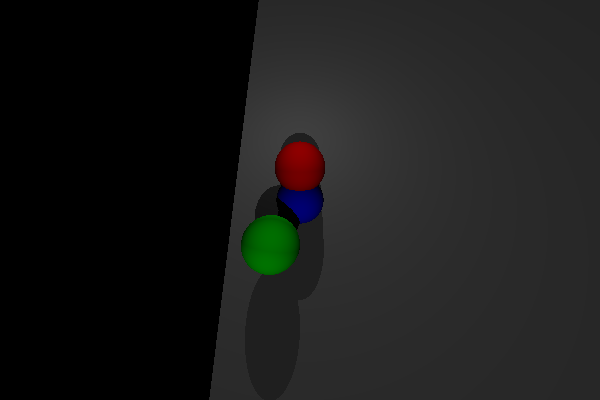
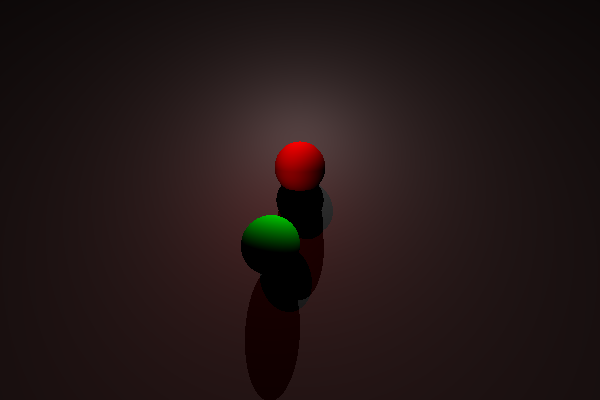
Changed scenes to better see point lights

diff --git a/src/main.rs b/src/main.rs
@@ -21,18 +21,23 @@ fn render_multiple_scenes() {
         Element::Sphere(Sphere::new(0f32, 1f32, -4f32, Colors::RED, 1.0)),
         Element::Sphere(Sphere::new(1f32, 1f32, -1f32, Colors::GREEN, 1.0)),
         Element::Plane(Plane::new()),
-        Element::Triangle(Triangle::new_defined())
+        // Element::Triangle(Triangle::new_defined())
     ];
     let lights = [
         Light::DirectionalLight(DirectionalLight {
             color: Colors::WHITE.value(),
-            intensity: 1.0,
+            intensity: 0.001,
             direction: Vector3::new(0.0, -1.0, -1.0),
         }),
         Light::PointLight(PointLight {
             color: Colors::WHITE.value(),
-            intensity: 1.0,
+            intensity: 2.0,
             position: Vector3::new(0.0, 3.0, -6.5),
+        }),
+        Light::PointLight(PointLight {
+            color: Colors::RED.value(),
+            intensity: 1.0,
+            position: Vector3::new(1.0, 3.0, -2.5),
         }),
     ];
     threads.push(thread::spawn(move || {

diff --git a/src/components/triangle.rs b/src/components/triangle.rs
@@ -41,7 +41,13 @@ impl Intersectable for Triangle {
     fn simple_intersect(&self, ray: &Ray) -> bool {
         let normal = &self.normal;
         let denom = normal.dot(&ray.direction);
-        denom > 1e-6
+        if denom > 1e-6 {
+            let p0l0 = self.get_position() - ray.origin;
+            let t = p0l0.dot(&normal) / denom;
+            t >= 0.0
+        } else {
+            false
+        }
     }
     fn get_position(&self) -> Vector3<f32> {
         self.coordinates
@@ -54,7 +60,7 @@ impl Intersectable for Triangle {
             None
         } else {
             let d = self.normal.dot(&self.coordinates[0]);
-            let t = -(self.normal.dot(&ray.origin) + d) / - self.normal.dot(&ray.direction);
+            let t = -(self.normal.dot(&ray.origin) + d) / self.normal.dot(&ray.direction);
             let intersection = ray.origin + t * ray.direction;
             Some(
                 PointInfo {

diff --git a/src/components/plane.rs b/src/components/plane.rs
@@ -24,7 +24,14 @@ impl Intersectable for Plane {
     fn simple_intersect(&self, ray: &Ray) -> bool {
         let normal = &self.normal;
         let denom = normal.dot(&ray.direction);
-        denom > 1e-6
+        if denom > 1e-6 {
+            let p0l0 = self.position - ray.origin;
+            let t = p0l0.dot(&normal) / denom;
+            t >= 0.0
+        } else {
+            false
+        }
+        
     }
     fn intersect(&self, ray: &Ray) -> Option<PointInfo> {
         let normal = &self.normal;

diff --git a/src/components/scene.rs b/src/components/scene.rs
@@ -79,7 +79,7 @@ impl Scene {
                     }
                 }
                 image.put_pixel(x, y, temp.0.to_rgba());
-                temp = (Colors::SKYBLUE.value(), std::f32::MAX);
+                temp = (lights[0].get_color() * lights[0].get_intensity(Vector3::new(0.0,0.0,0.0)) , std::f32::MAX);
             }
         }
         image.clone()
